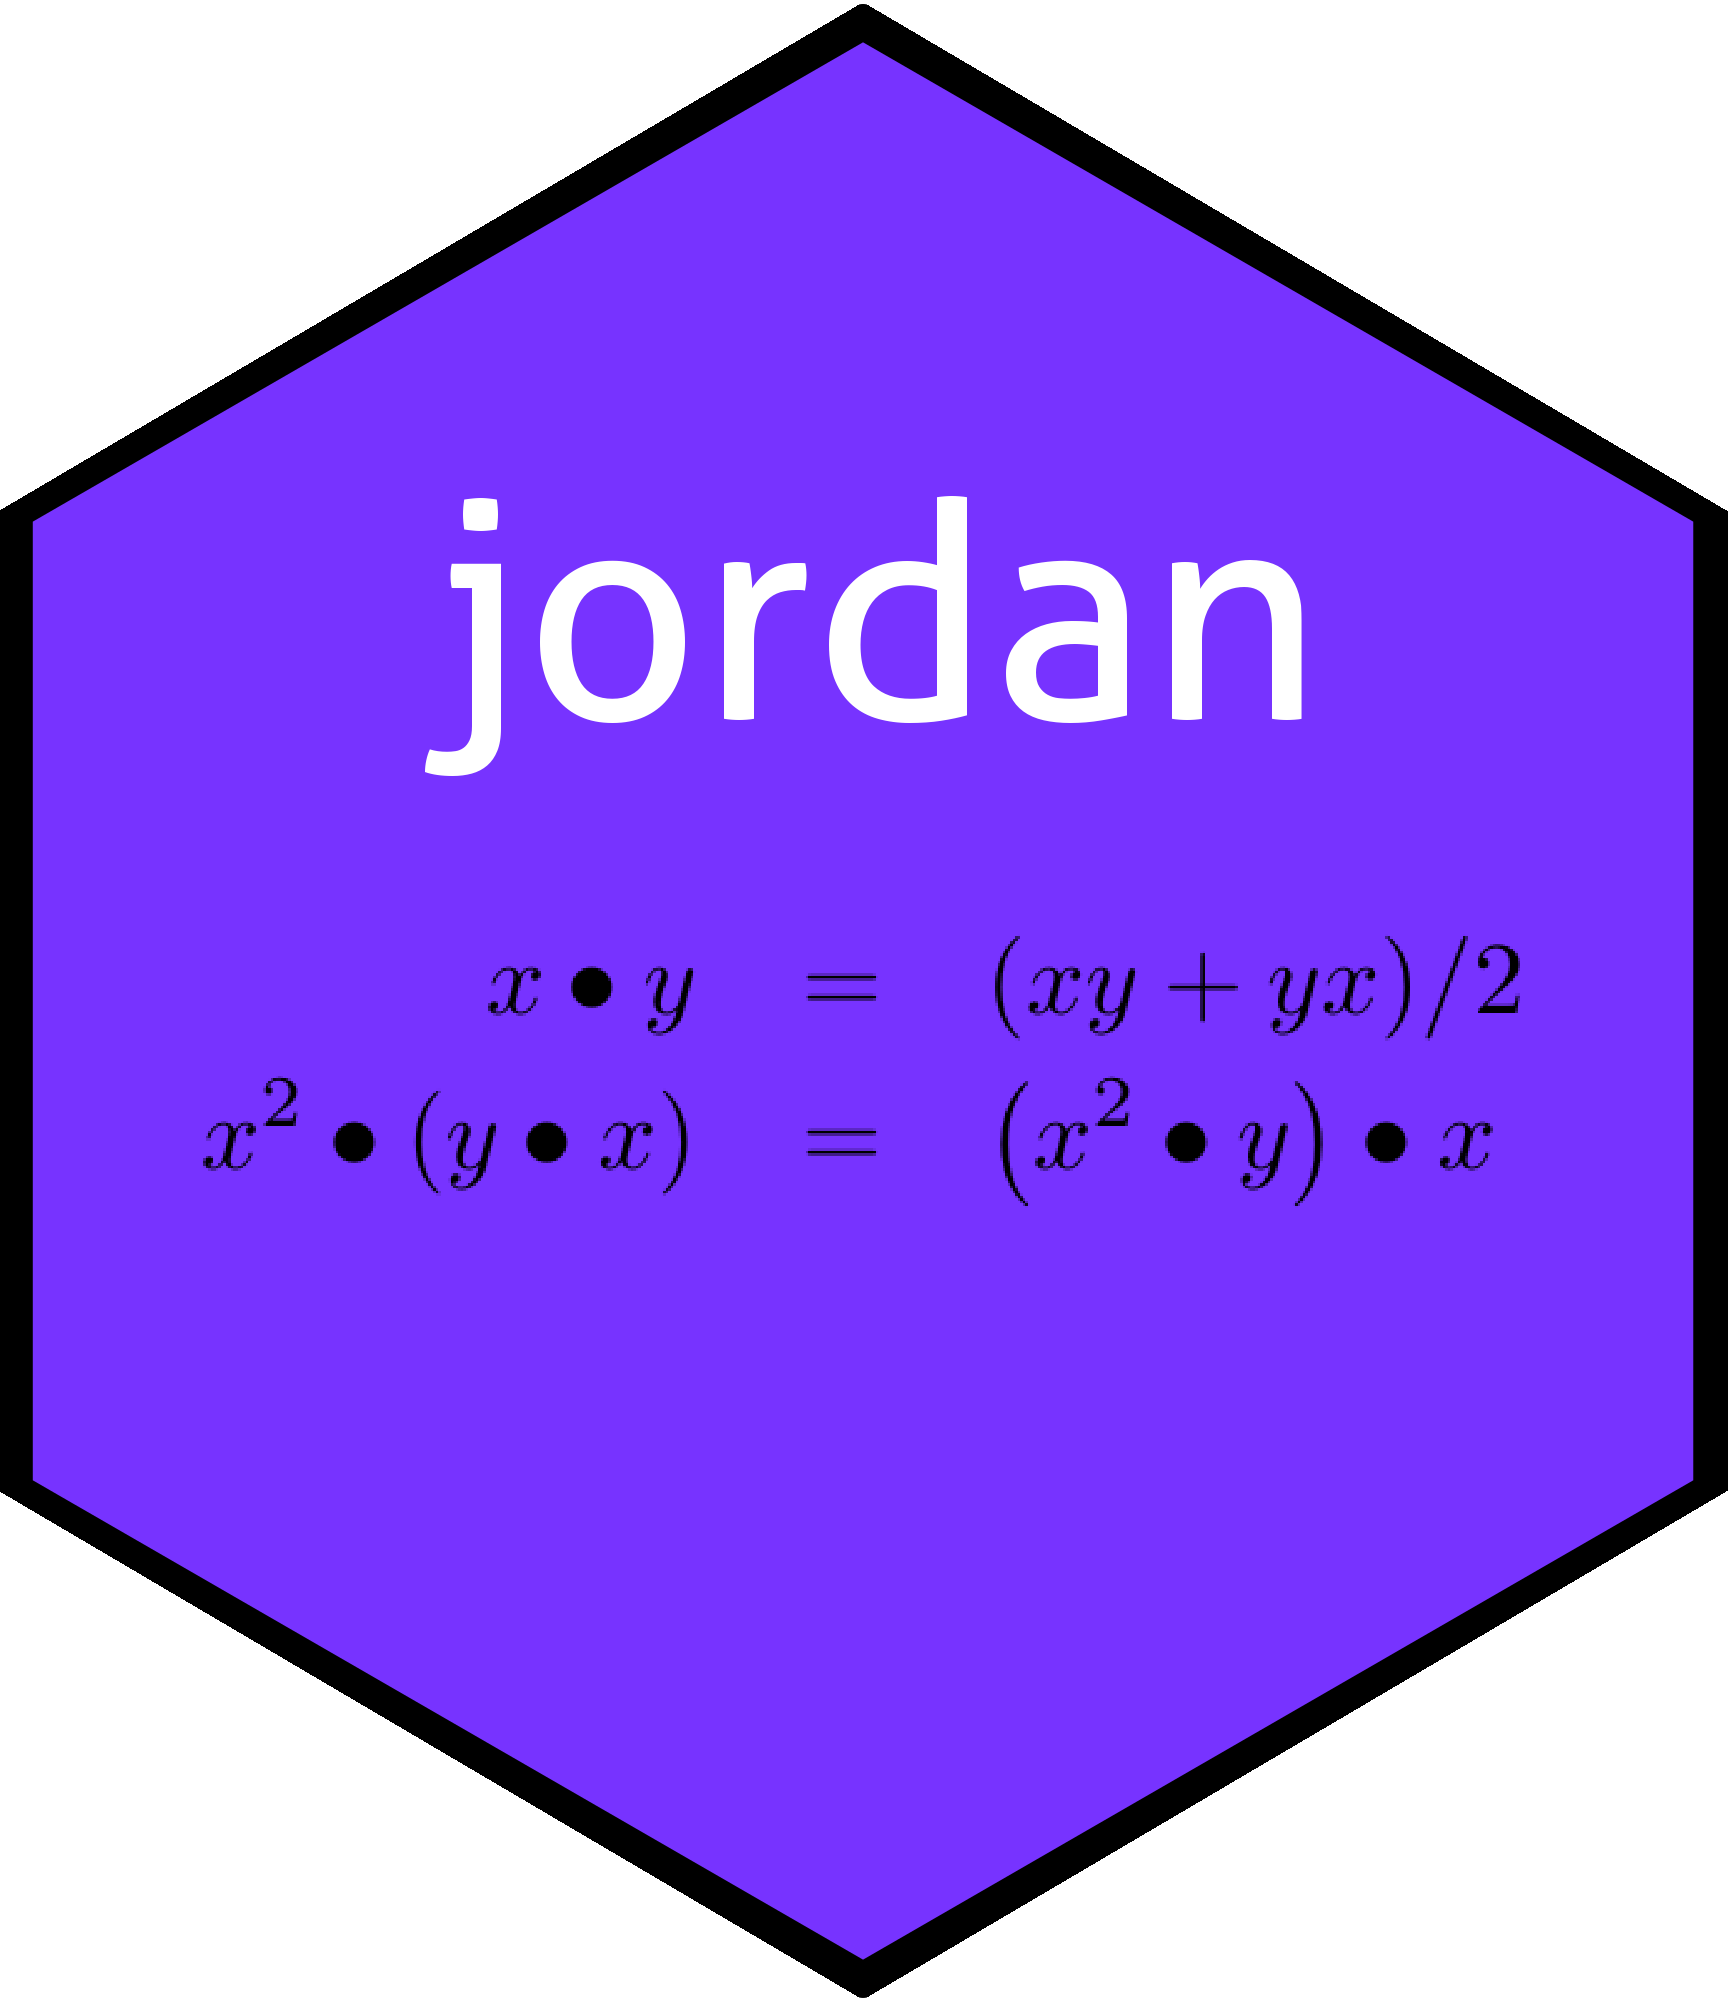
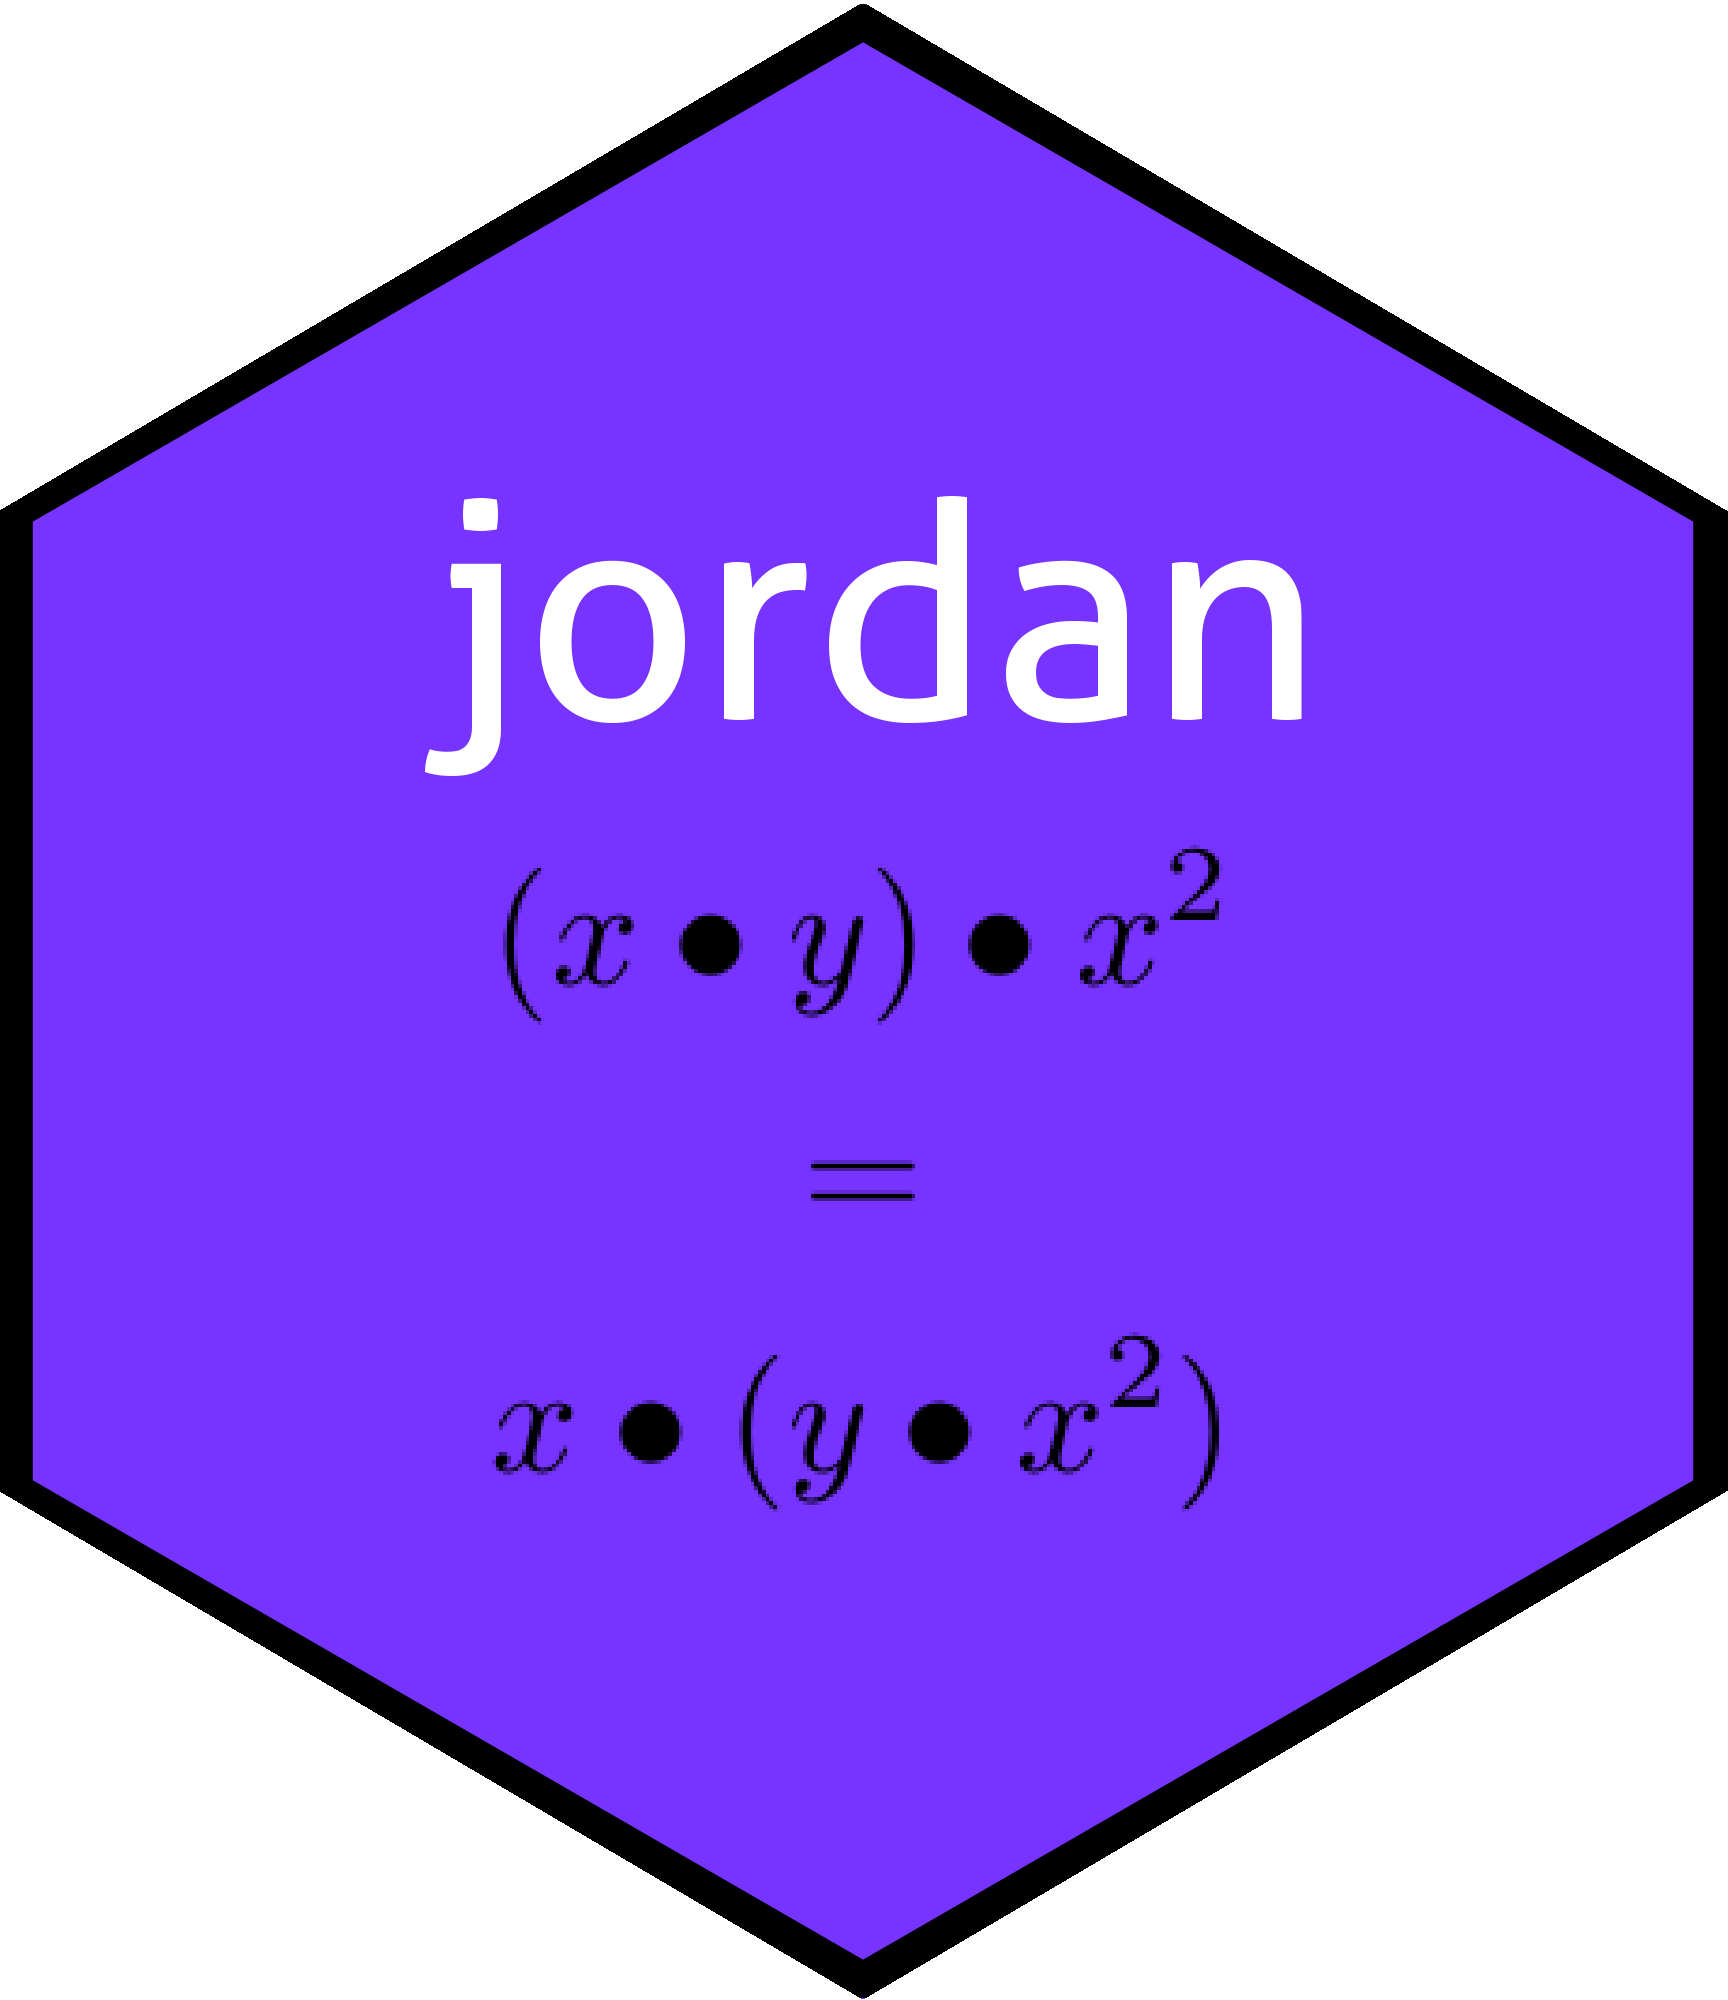
nicer sticker

diff --git a/inst/jordan_icon.tex b/inst/jordan_icon.tex
@@ -1,16 +1,17 @@
 % Needs to be edited (e.g. in inkscape) to make fraction lines thicker 
 \documentclass{article}
-\usepackage{amsmath} % for "\cfrac" macro
+\usepackage{amsmath} % for gather
 \usepackage{pagecolor}
-\usepackage[paperheight=1in,paperwidth=3in]{geometry}
+\usepackage[paperheight=2in,paperwidth=2in]{geometry}
 \usepackage{bm}
 
 \begin{document}
 \thispagestyle{empty}
 \definecolor{mycol}{HTML}{7733FF} 
 \pagecolor{mycol}
-\begin{eqnarray*}
-x\bullet y &=& (xy+yx)/2\\
-x^2\bullet\left(y\bullet x\right) &=& \left(x^2\bullet y\right)\bullet x
-\end{eqnarray*}
+\begin{gather*}
+  (x\bullet y)\bullet x^2\\
+\smash{=}\\
+  x\bullet(y\bullet x^2)
+\end{gather*}
 \end{document}
